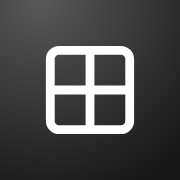
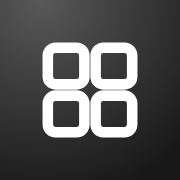
アイコン（と左上のロゴ）を旧アイコンの「4つの角丸の四角」に戻す
iPhone 用と Android 用（maskable）の PNG も同じ形で作り直す。
サービスワーカーの控えの名前を変えて、古いアイコンが残らないようにする。

Claude-Session: https://claude.ai/code/session_019498SmnaJbJyMKiF8d4iCf

Changed region(s): [[0.2222, 0.2222, 0.7778, 0.7778]]

diff --git a/kioku/public/sw.js b/kioku/public/sw.js
@@ -1,5 +1,5 @@
 // 通信がなくても開けるようにする（開いたものを端末に残す）
-const CACHE = 'kioku-v2';
+const CACHE = 'kioku-v3';
 
 self.addEventListener('install', (e) => {
   e.waitUntil(caches.open(CACHE).then((c) => c.addAll(['./', './index.html', './manifest.webmanifest', './icon.svg'])).then(() => self.skipWaiting()));
